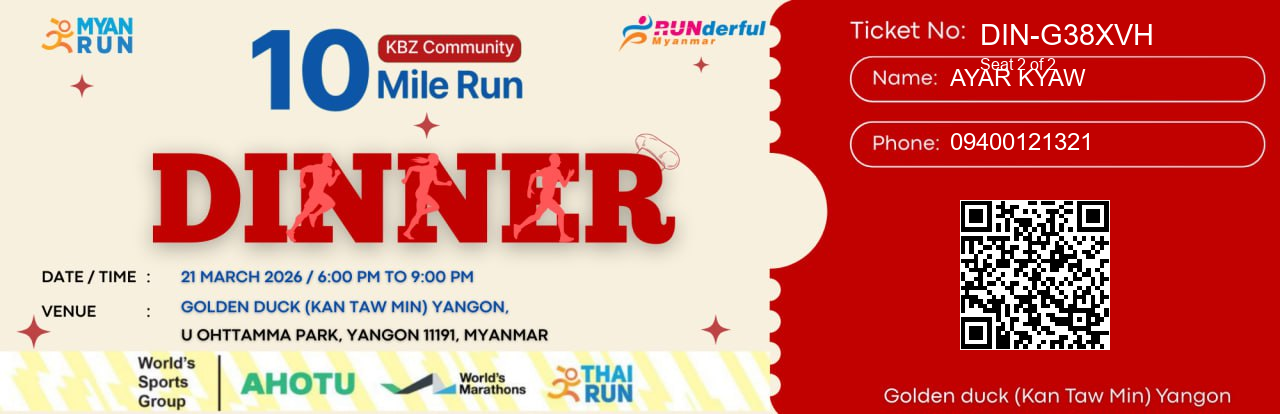
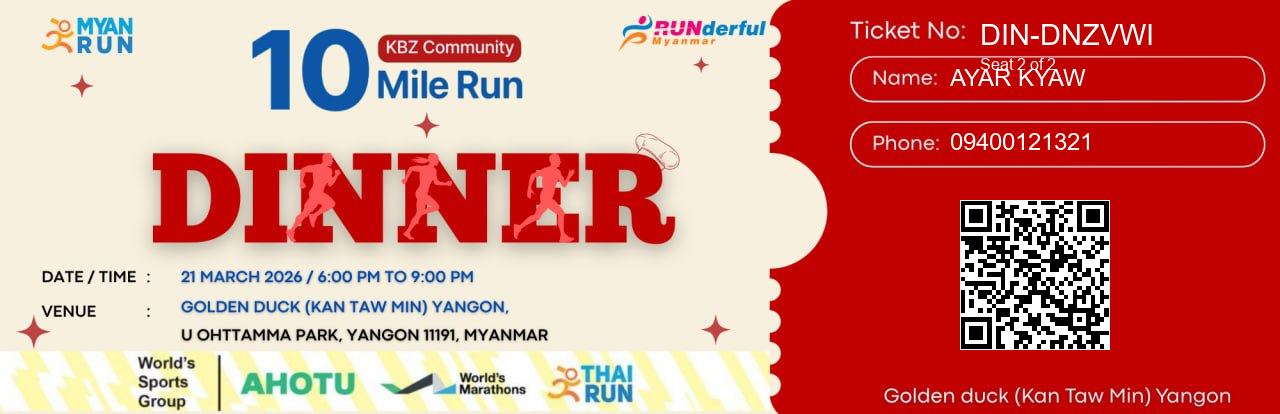
Change some code

Changed region(s): [[0.75, 0.5797, 0.8125, 0.7536], [0.8125, 0.058, 0.9062, 0.1159], [0.7812, 0.8116, 0.8125, 0.8406]]

diff --git a/app/Http/Controllers/DinnerController.php b/app/Http/Controllers/DinnerController.php
@@ -171,10 +171,8 @@ class DinnerController extends Controller
 
    public function adminApprove($id)
     {
-        // 1. Get ONLY the specific ticket record clicked
-        $ticket = DinnerTicket::with('registration')->findOrFail($id);
+        $ticket = DinnerTicket::with(['registration', 'dinner'])->findOrFail($id);
 
-        // Prevent double-processing or approving rejected tickets
         if ($ticket->status !== 'pending') {
             return back()->with('error', 'This ticket is already ' . $ticket->status);
         }
@@ -183,20 +181,15 @@ class DinnerController extends Controller
         $fontPath     = public_path('assets/fonts/arial.ttf');
         $saveDir      = public_path('uploads/tickets');
 
-        // Ensure directory exists
         if (!File::exists($saveDir)) {
             File::makeDirectory($saveDir, 0777, true);
         }
 
         $downloadUrls = [];
 
-        // 2. Loop only for the quantity of this specific purchase record
         for ($i = 1; $i <= $ticket->quantity; $i++) {
-            
-            // Generate a unique DIN code for this specific seat
             $uniqueCode = 'DIN-' . strtoupper(Str::random(6));
 
-            // Create the tracking record in sponsor_codes
             \App\Models\SponsorCode::create([
                 'dinner_id'          => $ticket->dinner_id,
                 'dinner_ticket_id'   => $ticket->id,
@@ -208,11 +201,11 @@ class DinnerController extends Controller
                 'status'             => 'used'
             ]);
 
-            // Define file naming
-            $fileName =  strtoupper($ticket->registration->first_name . ' ' . $ticket->registration->last_name) . '_' . $ticket->registration->phone .'.png';
+            // SANITIZED FILENAME: Remove spaces and add loop index to prevent overwriting
+            $safeName = Str::slug($ticket->registration->first_name . ' ' . $ticket->registration->last_name);
+            $fileName = $safeName . '_' . $ticket->registration->phone . '_' . time() . '_' . $i . '.png';
             $filePath = $saveDir . '/' . $fileName;
 
-            // 3. Image Logic
             if (file_exists($templatePath)) {
                 $image = @imagecreatefromjpeg($templatePath);
                 if ($image) {
@@ -221,14 +214,11 @@ class DinnerController extends Controller
                     $phone = $ticket->registration->phone ?? 'N/A';
                     
                     if (file_exists($fontPath)) {
-                        // Write Guest Name and Phone
                         imagettftext($image, 18, 0, 950, 86, $white, $fontPath, $fullName);
                         imagettftext($image, 18, 0, 950, 150, $white, $fontPath, $phone);
-                        
-                        // Write the Unique DIN Code and Seat Number
                         imagettftext($image, 22, 0, 980, 45, $white, $fontPath, $uniqueCode);
+                        imagettftext($image, 12, 0, 980, 70, $white, $fontPath, "Seat {$i} of {$ticket->quantity}");
 
-                        // Manual URL Construction for QR
                         $checkInUrl = "https://test-myanrun.itplus.net.mm/ticket/verify/" . $uniqueCode;
                         $qrUrl = "https://api.qrserver.com/v1/create-qr-code/?size=150x150&data=" . urlencode($checkInUrl);
                         
@@ -239,87 +229,22 @@ class DinnerController extends Controller
                         }
                     }
                     
-                    // Save the image
                     imagepng($image, $filePath);
                     imagedestroy($image);
                     
-                    // Add to list of URLs to be downloaded by the browser
                     $downloadUrls[] = asset('uploads/tickets/' . $fileName);
                 }
             }
         }
 
-        // 4. Mark the specific record as confirmed
-        $ticket->update(['status' => 'confirmed']);
+        // Mark the main ticket as confirmed
+        // $ticket->update(['status' => 'confirmed']);
 
         while (ob_get_level()) { ob_end_clean(); }
 
         return back()
-    ->with('success', count($downloadUrls) . ' ticket(s) generated successfully.')
-    ->with('download_urls', $downloadUrls);
-    }
-    public function toggleScanning($id)
-    {
-        $dinner = Dinner::findOrFail($id);
-        $dinner->is_scanning_open = !$dinner->is_scanning_open;
-        $dinner->save();
-
-        $status = $dinner->is_scanning_open ? 'Opened' : 'Closed';
-        return back()->with('success', "Scanning has been {$status} for this event.");
-    }
-    public function publicVerify($code)
-    {
-        // 1. Find the unique DIN code in the sponsor_codes table
-        // We eager load the 'ticket' and the 'registration' to get the guest name
-        $codeRecord = \App\Models\SponsorCode::where('code', $code)
-                        ->with(['ticket.registration'])
-                        ->first();
-
-        // 2. Error: Code doesn't exist
-        if (!$codeRecord) {
-            return redirect()->route('dinner.index')
-                ->with('error', "Invalid Ticket: Code {$code} not found in our system.");
-        }
-
-        $dinner = $codeRecord->ticket->dinner;
-
-        if (!$dinner->is_scanning_open) {
-            return redirect()->route('dinner.index')
-                ->with('error', "Scanning is currently DISABLED for this event.");
-        }
-
-        $ticket = $codeRecord->ticket;
-
-        // 3. Error: The code exists but the admin hasn't officially "Confirmed" the payment yet
-        if ($ticket->status !== 'confirmed') {
-            return redirect()->route('dinner.index')
-                ->with('error', "Verification Failed: This ticket payment is still {$ticket->status}.");
-        }
-
-        // 4. Check for Double Scanning
-        // If the ticket was scanned more than 30 seconds ago, it's a duplicate entry attempt
-        if ($ticket->scanned_at && $ticket->scanned_at->diffInSeconds(now()) > 30) {
-            $scanTime = $ticket->scanned_at->timezone('Asia/Yangon')->format('h:i A');
-            return redirect()->route('dinner.index')
-                ->with('error', "ALREADY USED: This ticket was scanned at {$scanTime}.");
-        }
-
-        // 5. Success: Mark as scanned
-        // We update the timestamp on the main ticket record
-        $ticket->update([
-            'scanned_at' => now()
-        ]);
-
-        // Optional: If you want to track which specific DIN code was scanned in the sponsor_codes table
-        $codeRecord->update([
-            'status' => 'used',
-            'used_count' => 1
-        ]);
-
-        $guestName = $ticket->registration->first_name ?? 'Guest';
-        
-        return redirect()->route('dinner.index')
-            ->with('success', "✅ Verified! Welcome, {$guestName}. (Code: {$code})");
+            ->with('success', count($downloadUrls) . ' ticket(s) generated successfully.')
+            ->with('download_urls', $downloadUrls);
     }
 
     public function uploadPayment(Request $request, $id) 

diff --git a/resources/views/dashboard/dinner/tickets.blade.php b/resources/views/dashboard/dinner/tickets.blade.php
@@ -281,36 +281,29 @@
         </div>
     </div>
 </main>
-
-{{-- Auto-Download Script --}}
 @if(session('download_urls'))
     <script>
         (function() {
-            // 1. Create a unique key based on the first URL to track this specific download batch
             const urls = {!! json_encode(session('download_urls')) !!};
-            if (urls.length === 0) return;
+            if (!urls || urls.length === 0) return;
 
-            const downloadKey = 'downloaded_' + btoa(urls[0]).substring(0, 16);
+            // Prevent repeat downloads on refresh/back
+            const downloadKey = 'dl_' + btoa(urls[0]).substring(0, 12);
+            if (sessionStorage.getItem(downloadKey)) return;
 
-            // 2. Check if the browser already processed this batch
-            if (sessionStorage.getItem(downloadKey)) {
-                console.log("Back button detected: Skipping duplicate download.");
-                return;
-            }
-
-            // 3. Trigger the downloads
             urls.forEach((url, index) => {
                 setTimeout(() => {
-                    const a = document.createElement('a');
-                    a.href = url;
-                    a.download = url.split('/').pop();
-                    document.body.appendChild(a);
-                    a.click();
-                    document.body.removeChild(a);
-                }, index * 400); // Small delay to prevent browser blocking
+                    const link = document.createElement('a');
+                    link.href = encodeURI(url);
+                    link.setAttribute('download', url.split('/').pop());
+                    document.body.appendChild(link);
+                    link.click();
+                    
+                    // Clean up DOM
+                    setTimeout(() => document.body.removeChild(link), 200);
+                }, index * 1000); // 1 second gap between downloads
             });
 
-            // 4. Mark as done in the browser's memory
             sessionStorage.setItem(downloadKey, 'true');
         })();
     </script>
